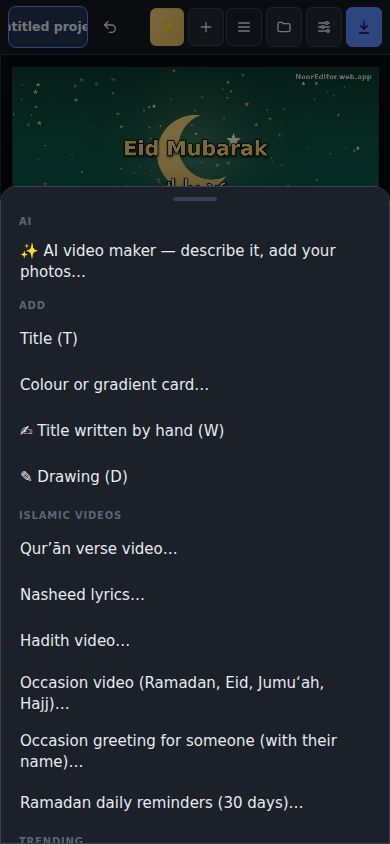
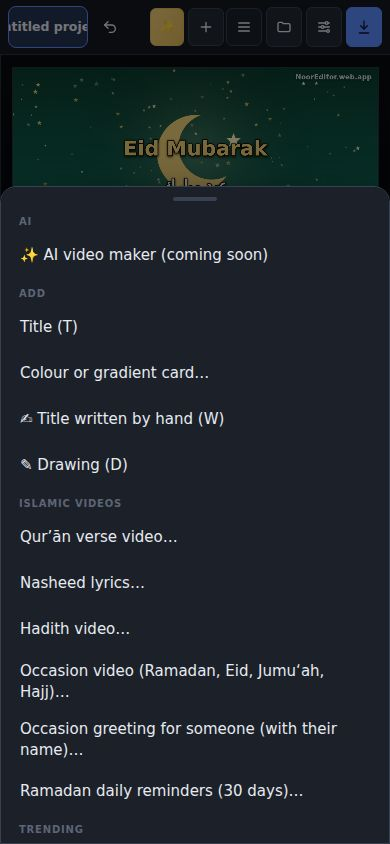
AI video maker: coming soon
The gold AI button (and Create > AI video maker) now says the AI video
maker is coming soon, with a shortcut to the templates. The assistant's
code stays in ai.js, switched off; a host turns it on with
REEL_CONFIG.features.ai = true once the full AI creator is in place.
Help, README and screenshots updated; two racy writing-sound tests fixed.

Claude-Session: https://claude.ai/code/session_01Gy3cPhYeWMfHmYCLXeSQtP

Changed region(s): [[0.0308, 0.2773, 0.8615, 0.7085], [0.0308, 0.7393, 0.8615, 1.0]]

diff --git a/video-editor/help.html b/video-editor/help.html
@@ -167,7 +167,7 @@
   <li><b>Timeline tools</b> — Split, Delete, Duplicate, Title, Write, Draw, Marker and new tracks.</li>
   <li><b>Timeline</b> — titles on top, then video and pictures, then sound. Drag clips to move and trim them.</li>
 </ol>
-<div class="tip"><b>New here?</b> Start with <a href="#t-first">Your first video in five minutes</a> — or let the <a href="#t-ai">✨ AI video maker</a> make one for you from a sentence.</div>
+<div class="tip"><b>New here?</b> Start with <a href="#t-first">Your first video in five minutes</a>.</div>
 <div class="tip"><b>العربية / Arabic:</b> choose <span class="m">View ▸ Language ▸ العربية</span> (on a phone: <b>☰ ▸ Language</b>). Menus, buttons, the details panel and windows switch to Arabic and read right to left; the preview and timeline stay left to right. Your choice is remembered.</div>
 </section>
 <section class="card" id="tutorials">
@@ -176,18 +176,10 @@
 <div class="chips" id="chips"></div>
 <div class="grid2" id="tutIndex"></div>
 </section>
-<section class="card tut" id="t-ai" data-title="✨ AI video maker: describe it, add your photos, it is made for you" data-tag="AI" data-thumb="help-img/ai-made.jpg">
-<div class="tut-head"><h2>✨ AI video maker: describe it, and it is made for you</h2><span class="tag">AI</span></div>
-<p class="lead">Write one sentence — “a 20-second Reel about patience with rain sounds”, “Eid Mubarak from Amina”, “animal sounds for kids: lion, cat and camel” — and the assistant writes the words and builds the whole video with NoorEditor’s own tools. Add your photos, videos or a sound and it builds around them.</p>
-<ol class="steps">
-<li>Press the gold <b>✨ AI</b> button at the top (or <span class="m">Create ▸ ✨ AI video maker</span>). On a phone it is the gold ✨ at the top. It first tells you what it does for free, which tools do real editing of your own recordings (auto captions, cutting pauses, following the face, background removal), and what NoorEditor Pro adds.<figure class="small"><img src="help-img/phone-ai.jpg" width="390" height="844" loading="lazy" alt="The AI video maker on a phone."><figcaption>On a phone.</figcaption></figure></li>
-<li>Describe your video, or tap an example. To choose every word yourself, put them in "quotes": <i>"Welcome to our channel" "Subscribe for more"</i>.</li>
-<li>Want your own pictures in it? Press <b>📎 Add photos, videos or sound</b>. Photos get slow movement and a colour look, videos are trimmed to fit, and your sound goes underneath — the video is made as long as your sound.</li>
-<li>Press <b>✨ Make video</b>. It picks the shape (9:16 unless you say YouTube or square), a mood, text designs, painted scenes, a short Qur’an verse or hadith with its reference where it fits, nature sounds, animal sounds and a chalk or keyboard sound for written titles.<figure class="medium"><img src="help-img/ai-dialog.jpg" width="680" height="792" loading="lazy" alt="The AI video maker: what you asked for, and what it made."><figcaption>The AI video maker tells you what it made: the words, the verse, the shape, the length and the sounds.</figcaption></figure></li>
-<li>It appears on the timeline, ready to watch. Every part — words, scenes, sounds — can be changed like anything else you add.<figure><img src="help-img/ai-made.jpg" width="1440" height="900" loading="lazy" alt="A video made from one sentence: painted scenes, words, a verse, rain and a sticker, each on its own track."><figcaption>Made from one sentence: painted scenes, words, a verse with its reference, rain underneath, each on its own track.</figcaption></figure></li>
-<li>Keep talking to it: <b>make it longer</b>, <b>30 seconds</b>, <b>add rain</b>, <b>add a lion</b>, <b>gold text</b>, <b>square</b>, <b>another version</b>, <b>read it aloud</b>, <b>in Arabic</b>, <b>add line: …</b>. It changes the same video; a new idea starts a new one. One <b>Undo</b> brings back the version before.<figure class="medium"><img src="help-img/ai-photos.jpg" width="432" height="768" loading="lazy" alt="Your own photos with your words over them."><figcaption>Your own photos, moving, with your words over them.</figcaption></figure></li>
-</ol>
-<div class="tip">Ask <b>“what can you do?”</b> to see everything it can use. It works on your device: nothing is uploaded and it costs nothing. Check any verse or hadith against its reference before sharing. <b>Read it aloud</b> works in English and other languages (not Arabic yet); the voice downloads once.</div>
+<section class="card tut" id="t-ai" data-title="✨ AI video maker — coming soon" data-tag="AI" data-thumb="help-img/menus-create.jpg">
+<div class="tut-head"><h2>✨ AI video maker — coming soon</h2><span class="tag">AI</span></div>
+<p class="lead">Coming soon, in shā’ Allāh: describe a video, add your photos, videos and sound, and the AI will make it for you. The gold <b>✨ AI</b> button at the top will open it.</p>
+<div class="tip">Until then, <span class="m">Create ▸ Templates</span>, <a href="#t-trends">Trending templates</a> and <span class="m">Create ▸ Occasion video</span> make a ready video in a few clicks.</div>
 </section>
 <section class="card tut" id="t-first" data-title="Your first video in five minutes" data-tag="Beginner" data-thumb="help-img/first-title.jpg">
 <div class="tut-head"><h2>Your first video in five minutes</h2><span class="tag">Beginner</span></div>

diff --git a/video-editor/test/editor.test.js b/video-editor/test/editor.test.js
@@ -925,6 +925,12 @@ async function probeFile(page, bytes) {
         const louder = (await project(page)).clips.find((c) => c.id === toneNow.id);
         check('Normalise loudness raises a quiet clip', louder.volume > toneNow.volume, toneNow.volume + ' → ' + louder.volume);
 
+        // Until the full AI video creator is switched on, its button says it is coming soon.
+        await page.click('#ai-maker');
+        const soon = await page.locator('.modal.generic .dialog').textContent();
+        check('the ✨ AI button says the AI video maker is coming soon', /Coming soon/.test(soon) && await page.locator('.modal.generic .ai-log').count() === 0 && /Soon/.test(await page.locator('#ai-maker').textContent()), soon.slice(0, 120));
+        await page.locator('.modal.generic').getByRole('button', { name: 'Close' }).click();
+
         // The menu bar.
         check('a clean menu bar on the right: File, Edit, View, Create, Tools, Help', (await page.locator('.menubar button:visible').allTextContents()).map((t) => t.trim()).join('|') === 'File|Edit|View|Create|Tools|Help' &&
             await page.locator('.studio-bar').isHidden() && await page.locator('.workspace-size-bar').isHidden() && !(await page.locator('#quran-video').isVisible()));
@@ -1410,10 +1416,10 @@ async function probeFile(page, bytes) {
             p.tracks.find((t) => t.id === keysClip.track).kind === 'audio', keysClip && (keysClip.start + ' ' + keysClip.duration + ' vs ' + keySpan + ' title ' + keyTitle.start + ' track ' + keysClip.track + ' ' + (p.tracks.find((t) => t.id === keysClip.track) || {}).kind));
         await page.evaluate((id) => window.ReelApp.selectOnly(id), keyTitle.id);
         await page.locator('.inspector-body button', { hasText: /^Chalk$/ }).click();
-        await page.waitForFunction(() => window.Reel.project.media.some((m) => /^Chalk on a board — Bismillah/.test(m.name)), null, { timeout: 15000 });
+        await page.waitForFunction((at) => { const p = window.Reel.project; return p.clips.some((c) => Math.abs(c.start - at) < 0.001 && /^Chalk on a board — Bismillah/.test((p.media.find((m) => m.id === c.mediaId) || {}).name || '')); }, keyTitle.start, { timeout: 15000 });
         p = await project(page);
-        const chalkMedia = p.media.filter((m) => /^Chalk on a board — Bismillah/.test(m.name)).pop();
-        const chalkClip = chalkMedia && p.clips.find((c) => c.mediaId === chalkMedia.id);
+        const chalkIds = p.media.filter((m) => /^Chalk on a board — Bismillah/.test(m.name)).map((m) => m.id);
+        const chalkClip = p.clips.find((c) => chalkIds.includes(c.mediaId) && Math.abs(c.start - keyTitle.start) < 0.001);
         check('and Writing sound ▸ Chalk adds chalk strokes for the same letters', !!chalkClip && approx(chalkClip.start, keyTitle.start, 0.001) && approx(chalkClip.duration, keysClip.duration, 0.05));
 
         /* ------------------------------------------------------------ recording */
@@ -1654,7 +1660,7 @@ async function probeFile(page, bytes) {
         const hosted = await context.newPage();
         await hosted.addInitScript(function () {
             window.REEL_CONFIG = {
-                watermark: 'nooreditor.app', siteUrl: 'https://nooreditor.app', features: { readAloud: false },
+                watermark: 'nooreditor.app', siteUrl: 'https://nooreditor.app', features: { readAloud: false, ai: true },
                 canRemoveWatermark: () => window.__pro === true, upgrade: (why) => { window.__upgrade = why; }
             };
         });
@@ -1693,6 +1699,8 @@ async function probeFile(page, bytes) {
 
         /* ------------------------------------------------------ Ramadan pack */
         const ram = await context.newPage();
+        // The AI video maker is switched on here; on a plain page it says it is coming soon.
+        await ram.addInitScript(() => { window.REEL_CONFIG = { features: { ai: true } }; });
         await ram.goto(base + '/video-editing/');
         await ram.waitForFunction(() => document.documentElement.dataset.ready === 'true');
         await ram.evaluate(() => document.querySelectorAll('.modal.generic').forEach((m) => m.remove()));

diff --git a/tools/help-screenshots.js b/tools/help-screenshots.js
@@ -502,33 +502,6 @@ async function makePhotos(page) {
     await settle();
     await shot('reframe-result');
 
-    /* 11b. AI video maker */
-    await page.evaluate(() => { document.querySelectorAll('.modal.generic').forEach((m) => m.remove()); window.ReelApp.apply(window.ReelApp.T.createProject({ width: 1280, height: 720, fps: 30 })); });
-    await page.click('#ai-maker');
-    await dialog().locator('.ai-prompt').fill('A 20-second Reel about patience with rain sounds');
-    await dialog().getByRole('button', { name: '✨ Make video' }).click();
-    await page.waitForFunction(() => /Done!/.test(document.querySelector('.ai-log').textContent), null, { timeout: 60000 });
-    await settle();
-    await shot('ai-dialog', dialog());
-    await closeDialog();
-    await page.evaluate(() => window.Reel.select(null));
-    await seek(7.5);
-    await settle();
-    await shot('ai-made');
-    await page.click('#ai-maker');
-    await page.setInputFiles('.modal.generic input[type=file]', photos);
-    await dialog().locator('.ai-prompt').fill('"Our trip to the mountains" "Alhamdulillah for every moment"');
-    await dialog().getByRole('button', { name: '✨ Make video' }).click();
-    await page.waitForFunction(() => document.querySelectorAll('.ai-msg.ai').length >= 3 && /Used your/.test(document.querySelector('.ai-log').lastElementChild.textContent), null, { timeout: 60000 });
-    await closeDialog();
-    await page.evaluate(() => window.Reel.select(null));
-    await seek(4.6);
-    await settle();
-    // The frame itself, at a readable size.
-    const frame = await page.evaluate(() => { const src = document.getElementById('preview'); const c = document.createElement('canvas'); c.width = 432; c.height = Math.round(432 * src.height / src.width); c.getContext('2d').drawImage(src, 0, 0, c.width, c.height); return c.toDataURL('image/jpeg', 0.82).split(',')[1]; });
-    fs.writeFileSync(path.join(OUT, 'ai-photos.jpg'), Buffer.from(frame, 'base64'));
-    console.log('saved ai-photos');
-
     /* 12. On a phone */
     const phone = await browser.newContext({ viewport: { width: 390, height: 844 }, deviceScaleFactor: 1, isMobile: true, hasTouch: true });
     await phone.route(/fonts\.(googleapis|gstatic)\.com/, (r) => r.abort());
@@ -545,9 +518,6 @@ async function makePhotos(page) {
     await mobile.click('#create');
     await mobile.waitForTimeout(400);
     await mshot('phone-menu');
-    await mobile.evaluate(() => { document.getElementById('create').click(); window.ReelAI.open(); });
-    await mobile.waitForTimeout(400);
-    await mshot('phone-ai');
     await phone.close();
 
     await browser.close();

diff --git a/video-editor/ai.js b/video-editor/ai.js
@@ -1132,12 +1132,33 @@
         setTimeout(() => prompt.focus(), 0);
     }
 
-    app.addTool({ section: 'Create', label: '✨ AI video maker — describe it, add your photos…', run: open });
+    /** Until the full AI video creator is ready, the button says it is coming soon. */
+    function comingSoon() {
+        app.pause();
+        app.openDialog({
+            title: '✨ AI video maker',
+            body: [
+                el('p', { className: 'ai-soon', text: 'Coming soon, in shā’ Allāh.' }),
+                el('p', { text: 'Soon you will describe a video, add your photos, videos and sound, and the AI will make it for you.' }),
+                el('p', { className: 'hint', text: 'Until then, Create ▸ Templates, Trending templates and Occasion video make a ready video in a few clicks.' })
+            ],
+            actions: [
+                { label: 'Close' },
+                { label: 'Open templates', primary: true, run: function () { setTimeout(() => app.runTool(/^Templates…$/), 0); return true; } }
+            ]
+        });
+    }
+
+    // The assistant is switched on by the host (REEL_CONFIG.features.ai = true) once the full AI creator is in place.
+    const ready = !!(app.config.features && app.config.features.ai === true);
+    const start = ready ? open : comingSoon;
+    app.addTool({ section: 'Create', label: ready ? '✨ AI video maker — describe it, add your photos…' : '✨ AI video maker (coming soon)', run: start });
     // A gold ✨ AI button in the top bar, just before the menus.
     const bar = document.querySelector('.menubar');
     if (bar && !document.getElementById('ai-maker')) {
-        const b = el('button', { type: 'button', id: 'ai-maker', className: 'ai-btn', 'aria-label': 'AI video maker', title: 'AI video maker: describe a video, add your photos, and it is made for you', onclick: open }, [el('span', { text: '✨' }), el('span', { className: 'hide-narrow', text: ' AI' })]);
+        const b = el('button', { type: 'button', id: 'ai-maker', className: 'ai-btn', 'aria-label': 'AI video maker', title: ready ? 'AI video maker: describe a video, add your photos, and it is made for you' : 'AI video maker — coming soon', onclick: start },
+            [el('span', { text: '✨' }), el('span', { className: 'hide-narrow', text: ' AI' }), ready ? null : el('span', { className: 'ai-soon-badge hide-narrow', text: 'Soon' })]);
         bar.parentNode.insertBefore(b, bar);
     }
-    Object.assign(window.ReelAI, { open, build, chat });
+    Object.assign(window.ReelAI, { open: start, openAssistant: open, comingSoon, ready, build, chat });
 }());

diff --git a/video-editor/i18n-ar.js b/video-editor/i18n-ar.js
@@ -4,6 +4,11 @@
  */
 window.REEL_AR = [
     // AI video maker
+    ['Coming soon, in shā’ Allāh.', 'قريبًا إن شاء الله.'], ['Soon', 'قريبًا'], ['AI video maker — coming soon', 'صانع الفيديو بالذكاء الاصطناعي — قريبًا'],
+    ['✨ AI video maker (coming soon)', '✨ صانع الفيديو بالذكاء الاصطناعي (قريبًا)'],
+    ['Soon you will describe a video, add your photos, videos and sound, and the AI will make it for you.', 'قريبًا تصف الفيديو وتضيف صورك وفيديوهاتك وصوتك، والذكاء الاصطناعي يصنعه لك.'],
+    ['Until then, Create ▸ Templates, Trending templates and Occasion video make a ready video in a few clicks.', 'إلى ذلك الحين، إنشاء ▸ القوالب والقوالب الرائجة وفيديو المناسبات تصنع فيديو جاهزًا ببضع نقرات.'],
+    ['Open templates', 'افتح القوالب'],
     ['✨ AI video maker', '✨ صانع الفيديو بالذكاء الاصطناعي'], ['AI video maker', 'صانع الفيديو بالذكاء الاصطناعي'], ['AI', 'ذكاء اصطناعي'],
     ['AI video maker: describe a video, add your photos, and it is made for you', 'صانع الفيديو بالذكاء الاصطناعي: صف الفيديو وأضف صورك ويُصنع لك'],
     ['✨ AI video maker — describe it, add your photos…', '✨ صانع الفيديو بالذكاء الاصطناعي — صِفه وأضف صورك…'],

diff --git a/video-editor/index.html b/video-editor/index.html
@@ -516,6 +516,8 @@ dialog#consentGate h1:focus-visible { outline: none; }
 /* AI video maker */
 #ai-maker { color: #202b22; background: linear-gradient(120deg, #f2d27a, #e3b85a); border-color: #e3b85a; font-weight: 650; padding: 6px 12px; flex-shrink: 0; }
 #ai-maker:hover { filter: brightness(1.06); }
+#ai-maker .ai-soon-badge { margin-left: 6px; font-size: 10px; font-weight: 700; text-transform: uppercase; letter-spacing: .04em; padding: 1px 6px; border-radius: 999px; background: rgba(32,43,34,.18); }
+.ai-soon { font-size: 18px; font-weight: 650; color: #f2d27a; margin: 4px 0 8px; }
 .ai-log { display: flex; flex-direction: column; gap: 8px; max-height: 38vh; min-height: 90px; overflow-y: auto; padding: 8px; border: 1px solid var(--line); border-radius: 10px; background: var(--panel-2); }
 .ai-msg { max-width: 92%; padding: 8px 11px; border-radius: 12px; line-height: 1.45; }
 .ai-msg strong { display: block; font-size: 11px; color: var(--muted); margin-bottom: 2px; }

diff --git a/video-editor/README.md b/video-editor/README.md
@@ -24,7 +24,7 @@ real-time export. Fast export, offline use and the Qur'ān tool need HTTP.
 
 | | |
 | --- | --- |
-| **✨ AI video maker** | Describe a video in a sentence (English or Arabic) and add your own photos, videos or sound if you like. It writes the words, picks a shape, mood, text designs, painted scenes, a short Qur'ān verse or hadith with its reference where it fits, and nature, animal and writing sounds, then builds the video on the timeline with the editor's own tools. Follow-ups change the same video: "longer", "add rain", "gold text", "another version", "read it aloud", "in Arabic". It runs on the device; a host can connect a language model with `REEL_CONFIG.ai.endpoint`, whose plan is checked against the editor's own lists. |
+| **✨ AI video maker** | Coming soon. The gold ✨ AI button says so until a host switches the assistant on with `REEL_CONFIG.features.ai = true`. The groundwork is in `ai.js`: a planner that turns a description (and your own photos, videos and sound) into a video built with the editor's tools, and a hook (`REEL_CONFIG.ai.endpoint`) for connecting a language model, whose plan is checked against the editor's own lists. |
 | **Import** | Video, audio and images from the Import button, or dropped on the page or onto a track. |
 | **Timeline** | Titles, overlay, video and audio tracks, and you can add more. Tracks can be hidden, muted, ducked, or removed when empty. |
 | **Editing** | Move clips (singly or as a group), trim, split, duplicate, delete, or delete and close the gap. Copy and paste works at the playhead. Clips snap to edges, markers and the playhead. Undo and redo cover every edit. |
